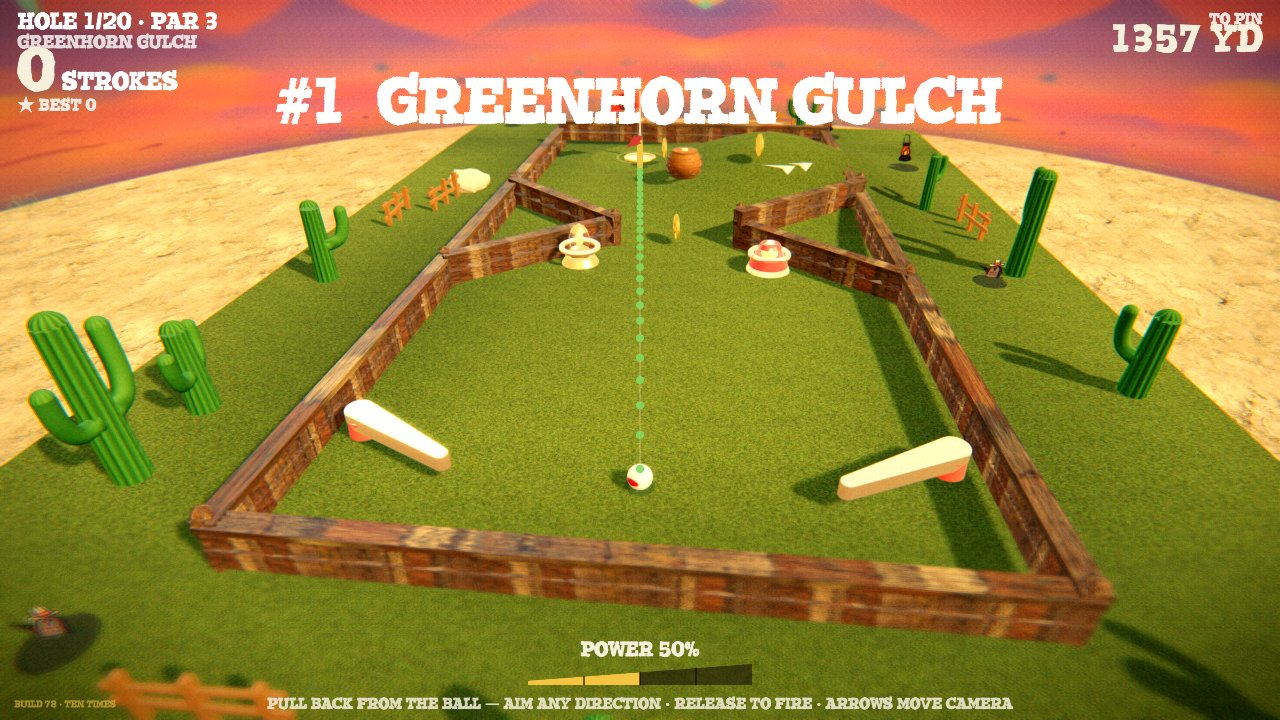
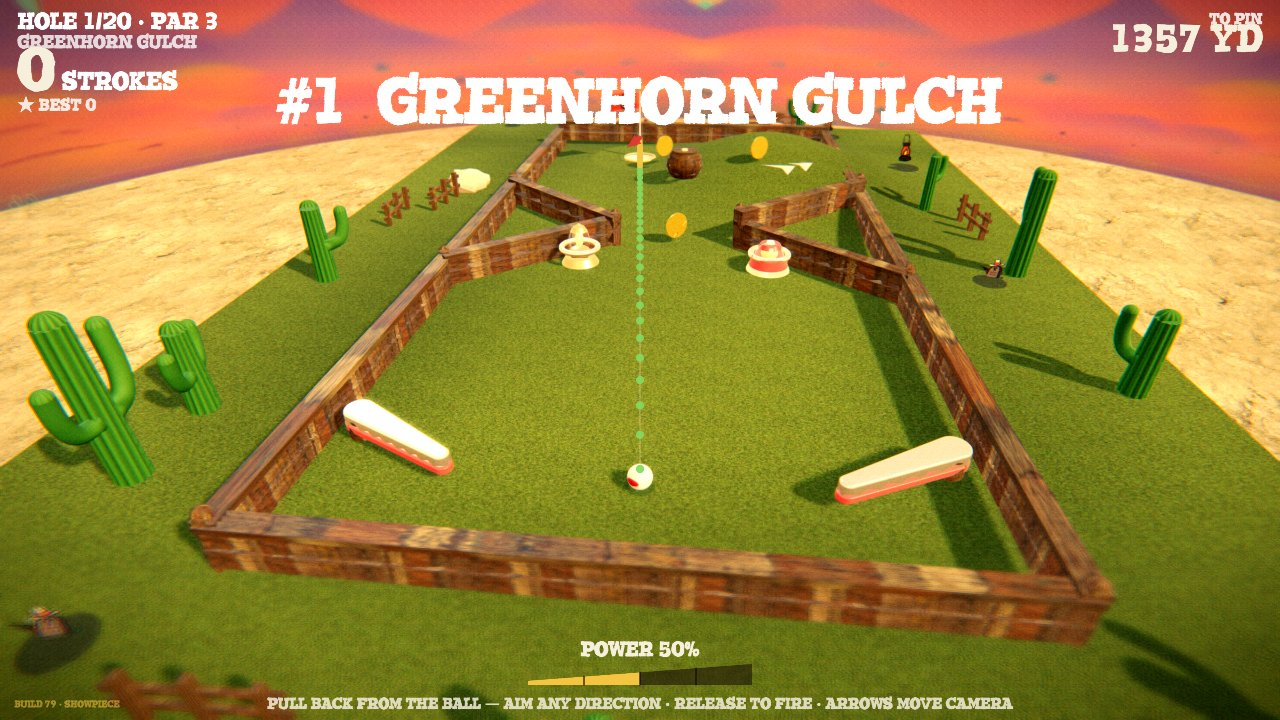
BUILD 79 showpiece: photographic timber EVERYWHERE procedural wood remained (diorama fences, whiskey-barrel staves+lids, loop deck+posts, windmill frame); flippers rebuilt as real pinball hardware — brushed-steel blade (8-seg bevel, 24 curve segs) over a wrapping red rubber edge band, turned-wood pi

diff --git a/js/pingolf.js b/js/pingolf.js
@@ -55,7 +55,7 @@
     jump: { c: 0x49d36a, e: 0x14702a, ch: '↑', name: 'JUMP', dur: 0, info: 'Pops the ball up into the air — hop clean over walls and hazards like a proper mini-golf jump.' }
   };
   var PU_KINDS = ['magnet', 'shield', 'slow', 'gem', 'jump'];
-  var BUILD = 'BUILD 78 · TEN TIMES';
+  var BUILD = 'BUILD 79 · SHOWPIECE';
 
   /* ================================================================ HOLE BUILDER
      A tiny DSL: each hole function fills a builder with obstacles and returns it. */
@@ -799,7 +799,7 @@
       var cacM = new T.MeshStandardMaterial({ color: 0x39702f, roughness: .8, envMapIntensity: .15 });
       var rokM = new T.MeshStandardMaterial({ color: 0xa88a66, roughness: .95 });
       var rokM2 = new T.MeshStandardMaterial({ color: 0x8a7458, roughness: .95 });
-      var fenM = new T.MeshStandardMaterial({ map: woodTex(), color: 0x9a6a3c, roughness: .8 });
+      var fenM = new T.MeshStandardMaterial({ map: photoTex('wood_d.jpg#fen', true), normalMap: photoTex('wood_n.jpg#fen', false), color: 0xb98c5a, roughness: .8 });
       var moonRokM = new T.MeshStandardMaterial({ color: 0x6a6280, roughness: .95, flatShading: true });
       var cacVM = new T.MeshStandardMaterial({ vertexColors: true, roughness: .72, envMapIntensity: .2 });
       var ribCol = function (geo, rib, c1, c2) {   // ridge/valley vertex shading — gives the ribs real depth under the sun
@@ -918,7 +918,7 @@
       }
     }
     // walls
-    var wm = new T.MeshStandardMaterial({ map: woodTex(), color: 0xb07840, roughness: .72 }), capm = new T.MeshStandardMaterial({ map: photoTex('wood_d.jpg#cap', true), normalMap: photoTex('wood_n.jpg#cap', false), color: 0xd9b98a, roughness: .6, envMapIntensity: .4 });
+    var wm = new T.MeshStandardMaterial({ map: photoTex('wood_d.jpg#wm', true), normalMap: photoTex('wood_n.jpg#wm', false), color: 0xc89058, roughness: .72 }), capm = new T.MeshStandardMaterial({ map: photoTex('wood_d.jpg#cap', true), normalMap: photoTex('wood_n.jpg#cap', false), color: 0xd9b98a, roughness: .6, envMapIntensity: .4 });
     function turfDecal(cx, cz, r0, r1, segs, rings, mat, lift) {   // disc/annulus that FOLLOWS the turf ripples — flat decals z-fight the undulating ground into sawtooth tears
       var pos = [], idx = [], RG = rings;
       for (var ri = 0; ri <= RG; ri++) for (var si = 0; si <= segs; si++) {
@@ -970,8 +970,8 @@
         var knob = new T.Mesh(new T.SphereGeometry(r * .14, 20, 14), brassM); knob.position.y = 33 + r * 1.18; g.add(knob); bm.btnM = null;
       } else if (kind === 2) {   // WHISKEY BARREL — coopered staves, iron hoops, amber glow seeping from the bung
         var bpts = []; for (var bi2 = 0; bi2 <= 18; bi2++) { var bt = bi2 / 18; bpts.push(new T.Vector2(r * (0.78 + Math.sin(bt * PI) * 0.3), 2 + bt * r * 1.5)); }
-        var barrel = new T.Mesh(new T.LatheGeometry(bpts, 112), new T.MeshStandardMaterial({ map: woodTex(), color: 0x9a6534, roughness: .62, envMapIntensity: .5 })); barrel.castShadow = true; g.add(barrel);
-        var lidM = new T.MeshStandardMaterial({ map: woodTex(), color: 0x7e5128, roughness: .7 });
+        var barrel = new T.Mesh(new T.LatheGeometry(bpts, 112), new T.MeshStandardMaterial({ map: photoTex('wood_d.jpg#brl', true), normalMap: photoTex('wood_n.jpg#brl', false), color: 0xb98050, roughness: .62, envMapIntensity: .5 })); barrel.castShadow = true; g.add(barrel);
+        var lidM = new T.MeshStandardMaterial({ map: photoTex('wood_d.jpg#brl', true), normalMap: photoTex('wood_n.jpg#brl', false), color: 0x96683c, roughness: .7 });
         var lid = new T.Mesh(new T.CylinderGeometry(r * .78, r * .78, 5, 56), lidM); lid.position.y = 3 + r * 1.5; lid.castShadow = true; g.add(lid);
         [0.22, 0.5, 0.78].forEach(function (hh) { var hp = new T.Mesh(new T.TorusGeometry(r * (0.78 + Math.sin(hh * PI) * 0.3) + 1.5, 2.6, 12, 64), darkIronM); hp.rotation.x = -PI / 2; hp.position.y = 2 + hh * r * 1.5; g.add(hp); });
         var bungM = new T.MeshStandardMaterial({ color: 0xffba3a, emissive: 0xd97a10, emissiveIntensity: .8, roughness: .35 });
@@ -1005,8 +1005,15 @@
       g.position.set(z.x, gy, z.z); g.rotation.y = -Math.atan2(z.dx, z.dz); R3.group.add(g); z.mesh = g;
     });
     // flippers
-    var chrome = new T.MeshStandardMaterial({ color: 0xf0f4fa, metalness: .96, roughness: .1, envMapIntensity: 2.1 }), redM = new T.MeshStandardMaterial({ color: 0xc01818, roughness: .26, metalness: .2, envMapIntensity: 1.2 });
-    hole.flippers.forEach(function (f) { var gy = hole.terrain(f.px, f.pz), g = new T.Group(); var pad = new T.Mesh(new T.ExtrudeGeometry(flipperShape(f.len), { depth: 18, bevelEnabled: true, bevelThickness: 3, bevelSize: 2.5, bevelSegments: 5 }), chrome); pad.rotation.x = -PI / 2; pad.position.y = 16; pad.castShadow = true; g.add(pad); var piv = new T.Mesh(new T.CylinderGeometry(18, 20, 24, 16), redM); piv.position.y = 10; g.add(piv); g.position.set(f.px, gy + 6, f.pz); R3.group.add(g); f.mesh = g; });
+    var steelM = new T.MeshStandardMaterial({ color: 0xd8dde6, metalness: .92, roughness: .22, envMapIntensity: 1.6 }), redM = new T.MeshPhysicalMaterial ? new T.MeshPhysicalMaterial({ color: 0xb01418, roughness: .32, metalness: .1, clearcoat: .8, clearcoatRoughness: .2, envMapIntensity: 1.1 }) : new T.MeshStandardMaterial({ color: 0xb01418, roughness: .3 });
+    hole.flippers.forEach(function (f) {
+      var gy = hole.terrain(f.px, f.pz), g = new T.Group();
+      var pad = new T.Mesh(new T.ExtrudeGeometry(flipperShape(f.len), { depth: 16, bevelEnabled: true, bevelThickness: 4, bevelSize: 3.5, bevelSegments: 8, curveSegments: 24 }), steelM); pad.rotation.x = -PI / 2; pad.position.y = 17; pad.castShadow = true; g.add(pad);
+      var rub = new T.Mesh(new T.ExtrudeGeometry(flipperShape(f.len), { depth: 7, bevelEnabled: true, bevelThickness: 2, bevelSize: 4.5, bevelSegments: 6, curveSegments: 24 }), redM); rub.rotation.x = -PI / 2; rub.position.y = 12; g.add(rub);   // red rubber band wrapping the underside edge, like a real machine
+      var piv = new T.Mesh(new T.CylinderGeometry(17, 19, 26, 48), new T.MeshStandardMaterial({ map: photoTex('wood_d.jpg#pv', true), normalMap: photoTex('wood_n.jpg#pv', false), color: 0x9a7048, roughness: .7 })); piv.position.y = 11; g.add(piv);
+      var pivCap = new T.Mesh(new T.SphereGeometry(13, 32, 20), steelM); pivCap.scale.y = .55; pivCap.position.y = 25; g.add(pivCap);
+      g.position.set(f.px, gy + 6, f.pz); R3.group.add(g); f.mesh = g;
+    });
     // windmills
     hole.windmills.forEach(function (wmi) {
       var gy = hole.terrain(wmi.x, wmi.z);
@@ -1040,10 +1047,10 @@
         if (s < SEG) { var a0 = s * 2; lidx.push(a0, a0 + 1, a0 + 2, a0 + 1, a0 + 3, a0 + 2); }
       }
       var dg = new T.BufferGeometry(); dg.setAttribute('position', new T.BufferAttribute(lpos, 3)); dg.setAttribute('uv', new T.BufferAttribute(luv, 2)); dg.setIndex(lidx); dg.computeVertexNormals();
-      var deck = new T.Mesh(dg, new T.MeshStandardMaterial({ map: woodTex(), color: 0xc08850, roughness: .68, side: T.DoubleSide })); deck.castShadow = true; R3.group.add(deck);
+      var deck = new T.Mesh(dg, new T.MeshStandardMaterial({ map: photoTex('wood_d.jpg#dk', true), normalMap: photoTex('wood_n.jpg#dk', false), color: 0xd0a268, roughness: .68, side: T.DoubleSide })); deck.castShadow = true; R3.group.add(deck);
       var railM = new T.MeshStandardMaterial({ color: 0xd9a44e, metalness: .82, roughness: .28, envMapIntensity: 1.3 });
       [-1, 1].forEach(function (sd) { var rail = new T.Mesh(new T.TorusGeometry(r, 4.5, 10, 52), railM); rail.position.set(cx + px * sd * W / 2, cy, cz + pz * sd * W / 2); rail.rotation.y = lo.ang - PI / 2; rail.castShadow = true; R3.group.add(rail); });
-      var postM = new T.MeshStandardMaterial({ map: woodTex(), color: 0x8a5c34, roughness: .8 });
+      var postM = new T.MeshStandardMaterial({ map: photoTex('wood_d.jpg#dk', true), normalMap: photoTex('wood_n.jpg#dk', false), color: 0xa87848, roughness: .8 });
       [-1, 1].forEach(function (sd) { var pgy = hole.terrain(cx + dx * sd * r * 0.92, cz + dz * sd * r * 0.92), ph2 = cy - pgy; var post = new T.Mesh(new T.CylinderGeometry(5.5, 8, ph2, 8), postM); post.position.set(cx + dx * sd * r * 0.92, pgy + ph2 / 2, cz + dz * sd * r * 0.92); post.castShadow = true; R3.group.add(post); });
       var base = new T.Mesh(new T.CircleGeometry(r * .6, 22), new T.MeshBasicMaterial({ color: 0x07040a, transparent: true, opacity: .3 })); base.rotation.x = -PI / 2; base.position.set(lo.x, gy + 1.5, lo.z); R3.group.add(base);
     });

diff --git a/game.html b/game.html
@@ -67,6 +67,6 @@
     </div>
   </div>
   <script src="vendor/three.min.js"></script>
-  <script src="js/pingolf.js?v=122"></script>
+  <script src="js/pingolf.js?v=123"></script>
 </body>
 </html>